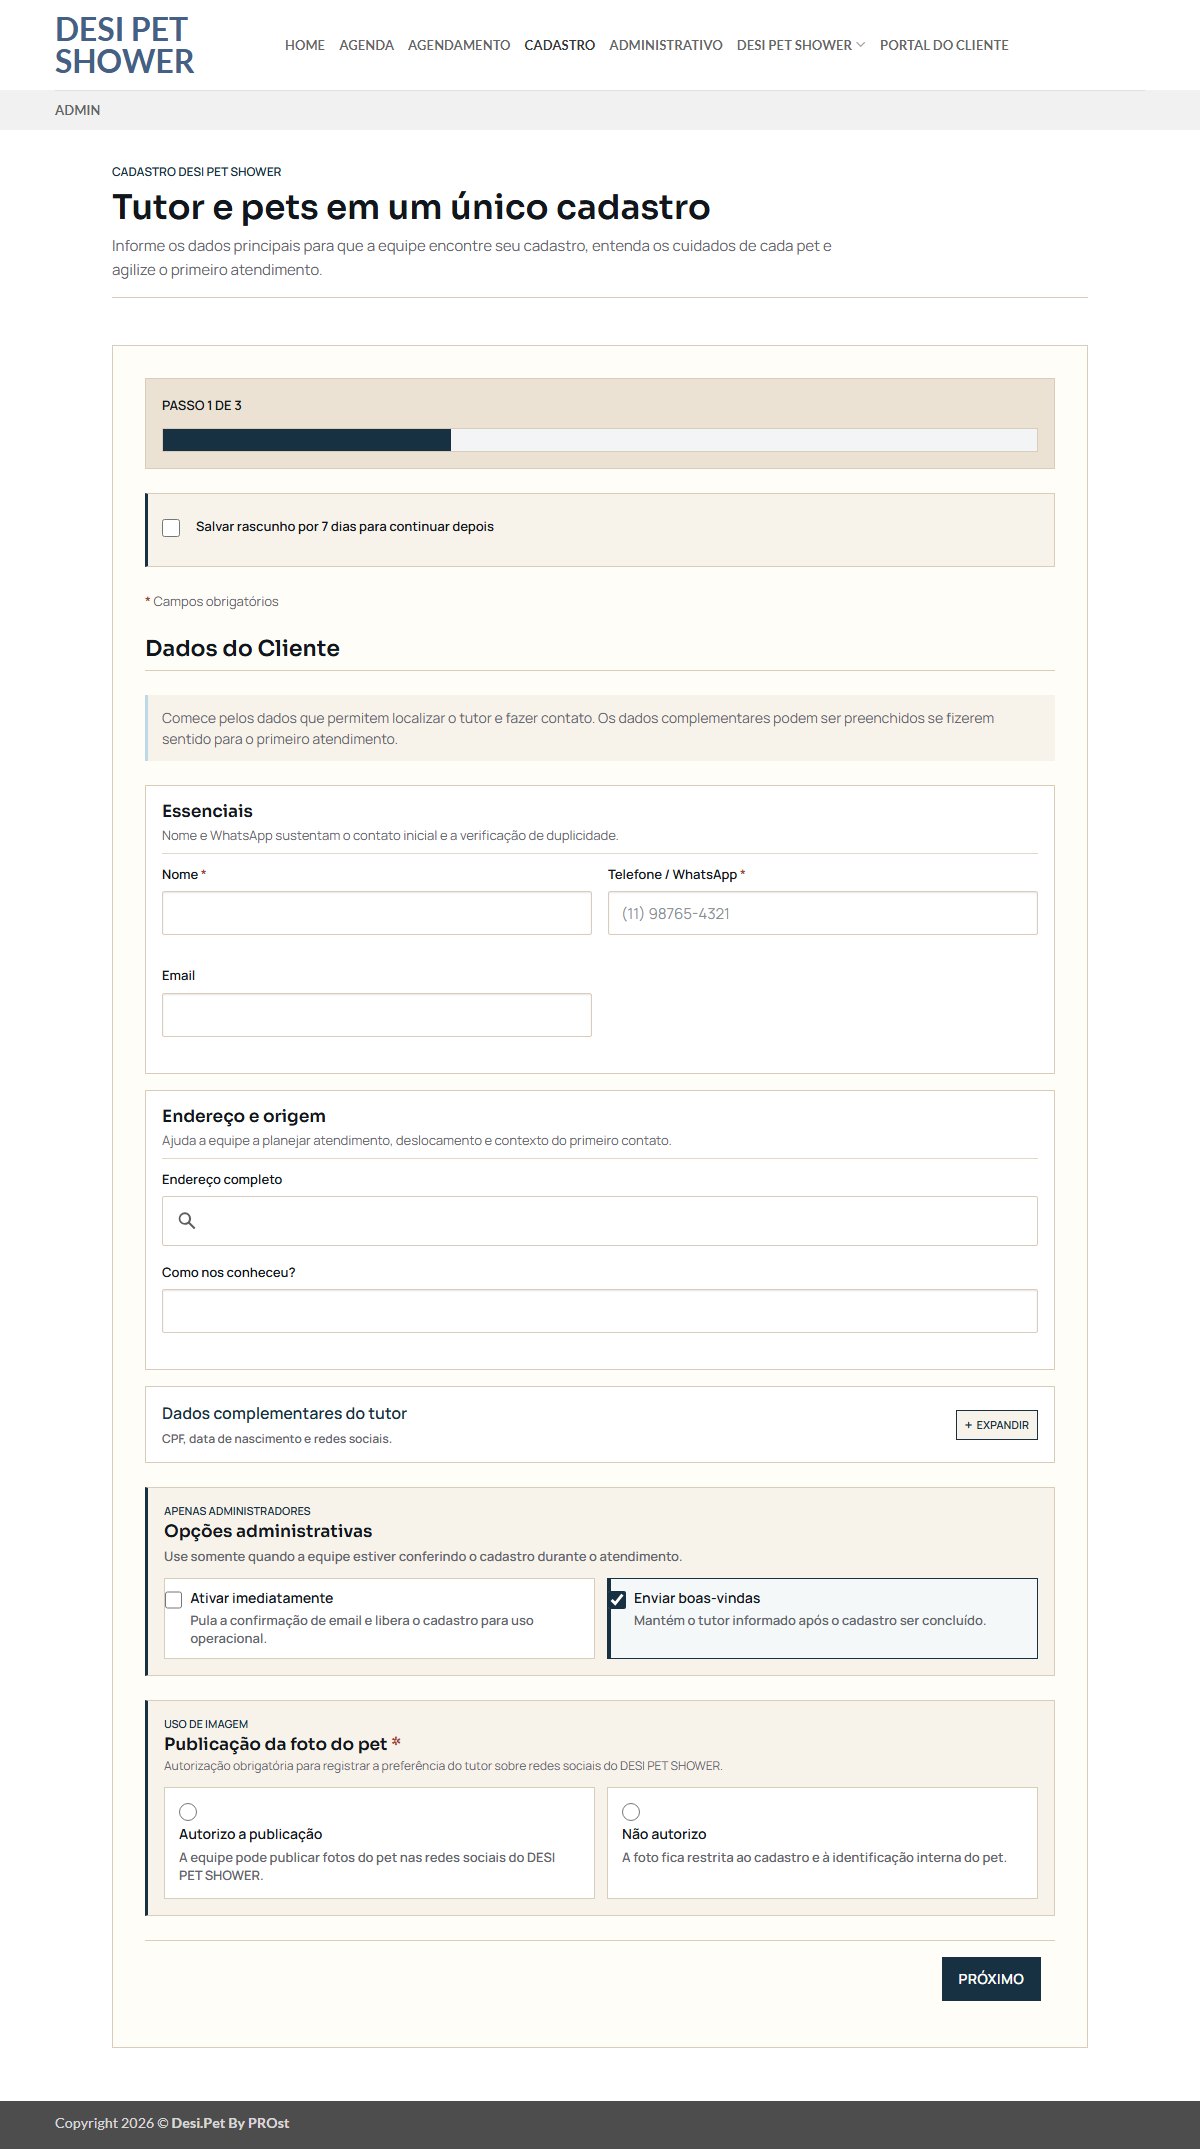
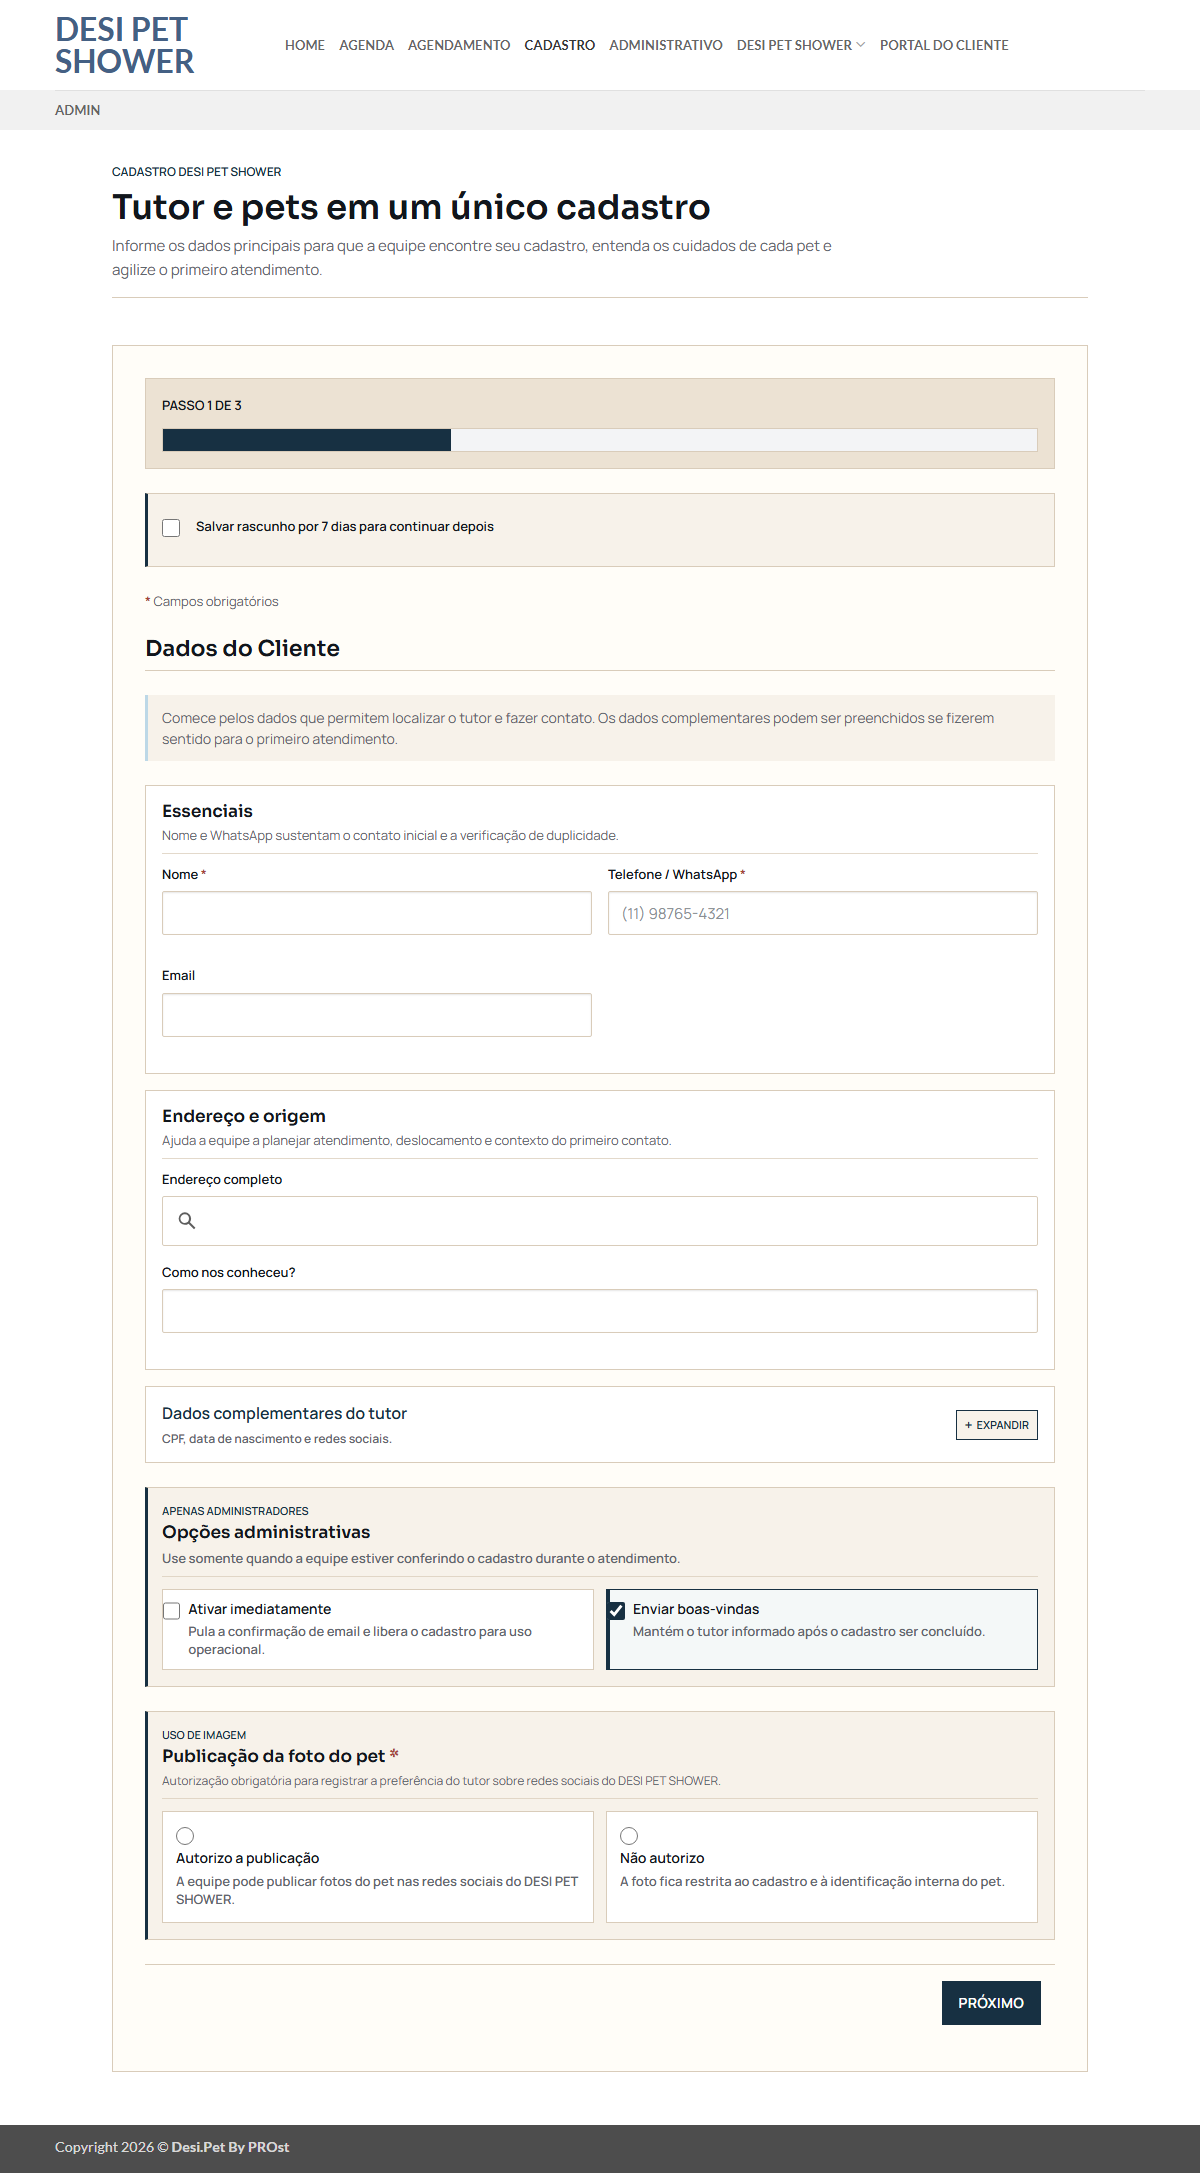
Ajustar alinhamento visual do Cadastro

diff --git a/plugins/desi-pet-shower-registration/assets/css/registration-addon.css b/plugins/desi-pet-shower-registration/assets/css/registration-addon.css
@@ -511,7 +511,7 @@
     gap: var(--dps-reg-gap-md);
     min-width: 0;
     margin: 0;
-    padding: 16px;
+    padding: 16px 16px 16px 14px;
     border: 1px solid var(--dps-reg-line);
     border-left: 3px solid var(--dps-reg-petrol);
     border-radius: 0;
@@ -520,8 +520,10 @@
 
 .dps-photo-auth-choice__header {
     display: grid;
-    gap: 5px;
+    gap: 6px;
     min-width: 0;
+    padding-bottom: var(--dps-reg-gap-sm);
+    border-bottom: 1px solid rgba(217, 204, 186, 0.75);
 }
 
 .dps-photo-auth-choice__eyebrow,
@@ -549,17 +551,18 @@
     display: grid;
     grid-template-columns: repeat(2, minmax(0, 1fr));
     gap: var(--dps-reg-gap-md);
+    align-items: stretch;
 }
 
 .dps-photo-auth-option {
     display: grid;
-    grid-template-columns: auto minmax(0, 1fr);
+    grid-template-columns: 22px minmax(0, 1fr);
     gap: var(--dps-reg-gap-sm);
     align-items: start;
     min-width: 0;
     min-height: 112px;
     margin: 0;
-    padding: 14px;
+    padding: 14px 14px 14px 13px;
     border: 1px solid var(--dps-reg-line);
     border-radius: 0;
     background: #ffffff;
@@ -582,8 +585,13 @@
 .dps-photo-auth-option input[type="radio"] {
     width: 18px;
     height: 18px;
+    justify-self: start;
     margin: 1px 0 0;
     accent-color: var(--dps-reg-petrol);
+}
+
+.dps-photo-auth-choice .dps-field-hint {
+    margin: 0;
 }
 
 .dps-photo-auth-option__text {
@@ -944,15 +952,17 @@
     grid-column: 1 / -1;
     display: grid;
     gap: var(--dps-reg-gap-md);
-    padding: 16px;
+    padding: 16px 16px 16px 14px;
     border-left: 3px solid var(--dps-reg-petrol);
     background: var(--dps-reg-paper);
 }
 
 .dps-admin-options__header {
     display: grid;
-    gap: 5px;
+    gap: 6px;
     min-width: 0;
+    padding-bottom: var(--dps-reg-gap-sm);
+    border-bottom: 1px solid rgba(217, 204, 186, 0.75);
 }
 
 .dps-admin-options__title {
@@ -977,17 +987,18 @@
     display: grid;
     grid-template-columns: repeat(2, minmax(0, 1fr));
     gap: var(--dps-reg-gap-md);
+    align-items: stretch;
 }
 
 .dps-admin-option {
     display: grid;
-    grid-template-columns: auto minmax(0, 1fr);
+    grid-template-columns: 22px minmax(0, 1fr);
     gap: var(--dps-reg-gap-sm);
     align-items: start;
     min-width: 0;
     min-height: 104px;
     margin: 0;
-    padding: 14px;
+    padding: 14px 14px 14px 13px;
     border: 1px solid var(--dps-reg-line);
     border-radius: 0;
     background: #ffffff;
@@ -1012,6 +1023,7 @@
 .dps-admin-option input[type="checkbox"] {
     width: 18px;
     height: 18px;
+    justify-self: start;
     margin: 2px 0 0;
     accent-color: var(--dps-reg-petrol);
 }
@@ -1281,6 +1293,11 @@
         padding: 14px;
     }
 
+    .dps-admin-options,
+    .dps-photo-auth-choice {
+        padding-left: 12px;
+    }
+
     .dps-client-fields,
     .dps-pet-fieldset,
     .dps-field-group__body,
@@ -1355,6 +1372,11 @@
     .dps-modal-body,
     .dps-modal-footer {
         padding: 12px;
+    }
+
+    .dps-admin-options,
+    .dps-photo-auth-choice {
+        padding-left: 10px;
     }
 
     .dps-registration-form h4 {

diff --git a/plugins/desi-pet-shower-registration/desi-pet-shower-registration-addon.php b/plugins/desi-pet-shower-registration/desi-pet-shower-registration-addon.php
@@ -3,7 +3,7 @@
  * Plugin Name:       desi.pet by PRObst – Cadastro Add-on
  * Plugin URI:        https://www.probst.pro
  * Description:       Página pública de cadastro para clientes e pets. Envie o link e deixe o cliente preencher seus dados.
- * Version:           1.3.5
+ * Version:           1.3.6
  * Author:            PRObst
  * Author URI:        https://www.probst.pro
  * Text Domain:       dps-registration-addon
@@ -1018,7 +1018,7 @@ class DPS_Registration_Addon {
         }
 
         $addon_url = plugin_dir_url( __FILE__ );
-        $version   = '1.3.5';
+        $version   = '1.3.6';
 
         $recaptcha_settings = $this->get_recaptcha_settings();
         $should_load_recaptcha = $recaptcha_settings['enabled'] && ! empty( $recaptcha_settings['site_key'] );

diff --git a/docs/screenshots/2026-04-25/SCREENSHOTS_2026-04-25.md b/docs/screenshots/2026-04-25/SCREENSHOTS_2026-04-25.md
@@ -89,6 +89,7 @@ Resumo:
 - autorizacao de publicacao de foto movida para um fieldset obrigatorio acima do botao `Proximo`, com opcoes destacadas `Autorizo` e `Nao autorizo`;
 - opcoes administrativas validadas como painel premium DPS Signature com 2 cards suportados pelo backend: `Ativar imediatamente` e `Enviar boas-vindas`;
 - autorizacao de foto refinada para cabecalho `Uso de imagem` e cards de decisao obrigatorios, mantendo `client_photo_auth` com 2 radios required;
+- margens e bordas dos paineis finais foram revalidadas com `adminPanelAlignedWithOptionalDetails: true` e `photoAuthPanelAlignedWithAdmin: true` em `375`, `600`, `840`, `1200` e `1920`;
 - validacao em branco passou a bloquear avanco tambem com `Informe se autoriza ou nao autoriza a publicacao da foto do pet.`;
 - runtime publicado confirmou `photoAuthFieldExists: true`, `photoAuthOptions: 2`, `photoAuthRequired: true` e `summaryHasPhotoAuth: true`;
 - campo Telefone/WhatsApp validado sem o texto fixo `Formato: (DDD) numero com 8 ou 9 digitos`; `phoneHintExists: false` nos cinco breakpoints e grid essencial com menor espaco vertical entre linhas;

diff --git a/CHANGELOG.md b/CHANGELOG.md
@@ -106,6 +106,7 @@ Antes de criar uma nova versÃ£o oficial:
 - Reorganizada a etapa do tutor em grupos de dados essenciais, endereco/origem e complementares, com rascunho opt-in e live region acessivel.
 - Transformada a autorização de publicação da foto do pet em escolha obrigatória `Autorizo`/`Não autorizo`, destacada acima do botão Próximo.
 - Redesenhadas as áreas de opções administrativas e autorização de foto do Cadastro com hierarquia, microcopy e cards de decisão no padrão DPS Signature.
+- Refinadas margens, bordas e alinhamentos dos painéis finais do Cadastro para manter recuos consistentes entre desktop e mobile.
 - Adicionado indicador `Expandir`/`Recolher` aos disclosures opcionais do Cadastro para deixar a área expansível explícita.
 - Removida a dica fixa de formato do campo Telefone/WhatsApp e compactado o espaçamento vertical dos campos essenciais.
 - Corrigido contraste do componente Google Places no campo Endereço completo, forçando superfície clara e texto legível no padrão DPS Signature.
